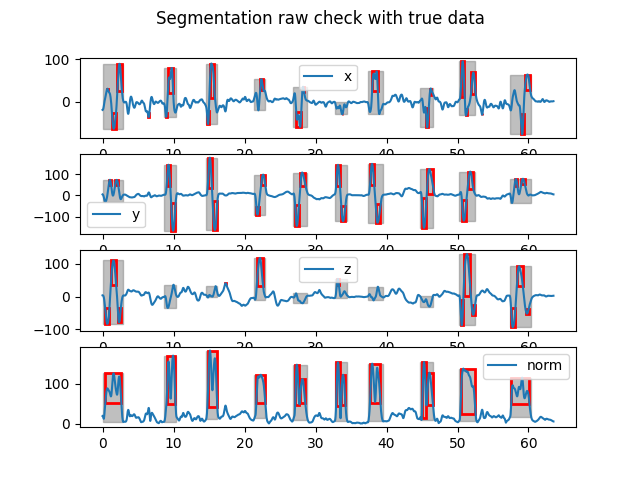
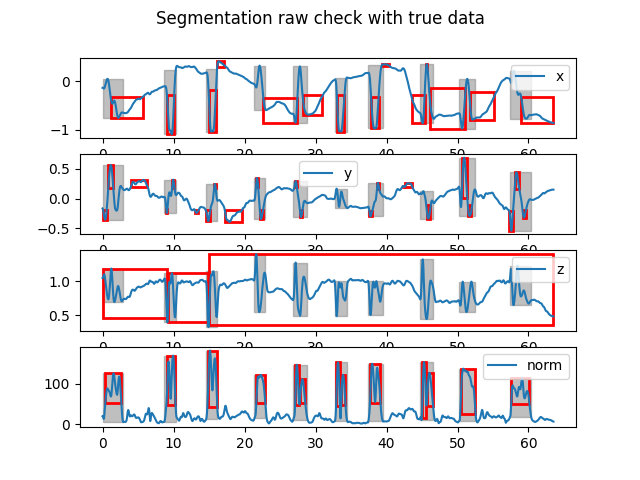
test for test ax + ay, all acc + gyr, all acc, all gyr and compute IOU for each

diff --git a/signalUtils.py b/signalUtils.py
@@ -3,23 +3,87 @@ import mathsUtils as MATH
 import matplotlib.pyplot as plt
 import numpy as np
 
-def all_calculations(x_accel, y_accel, z_accel, timestamp, sigma, threshold_multiplier, true_mvmt, fs):
+def all_calculations(signal, timestamp, sigma, threshold_multiplier, true_mvmt, fs, choice):
+    x_accel = signal[0]
+    y_accel = signal[1]
+    z_accel = signal[2]
 
-    xaccel_derivative, xaccel_gaussian, abs_xaccel, start_xaccel, end_xaccel = MATH.simple_segmentation(
+    if choice == 2: #only x and y acc
+        z_accel = [0] * len(z_accel) 
+        xaccel_derivative, xaccel_gaussian, abs_xaccel, start_xaccel, end_xaccel = MATH.simple_segmentation(
             timestamp, x_accel, sigma, threshold_multiplier)
-    yaccel_derivative, yaccel_gaussian, abs_yaccel, start_yaccel, end_yaccel = MATH.simple_segmentation(
-            timestamp, y_accel, sigma, threshold_multiplier)
-    zaccel_derivative, zaccel_gaussian, abs_zaccel, start_zaccel, end_zaccel = MATH.simple_segmentation(
-            timestamp, z_accel, sigma, threshold_multiplier)
-    
-    norm_derivative = MATH.compute_norm(xaccel_derivative, yaccel_derivative, zaccel_derivative)
-    norm_gaussian = MATH.compute_norm(xaccel_gaussian, yaccel_gaussian, zaccel_gaussian)
-    
+        yaccel_derivative, yaccel_gaussian, abs_yaccel, start_yaccel, end_yaccel = MATH.simple_segmentation(
+                timestamp, y_accel, sigma, threshold_multiplier)
+        zaccel_derivative, zaccel_gaussian, abs_zaccel, start_zaccel, end_zaccel = MATH.simple_segmentation(
+                timestamp, z_accel, sigma, threshold_multiplier)
+        
+        norm_derivative = MATH.compute_norm(xaccel_derivative, yaccel_derivative, zaccel_derivative)
+        norm_gaussian = MATH.compute_norm(xaccel_gaussian, yaccel_gaussian, zaccel_gaussian)
+
+        name = "x_y_acc"
+    elif choice == 3: #merge all acc and gyros
+        xaccel_derivative, xaccel_gaussian, abs_xaccel, start_xaccel, end_xaccel = MATH.simple_segmentation(
+            timestamp, x_accel, sigma, threshold_multiplier)
+        yaccel_derivative, yaccel_gaussian, abs_yaccel, start_yaccel, end_yaccel = MATH.simple_segmentation(
+                timestamp, y_accel, sigma, threshold_multiplier)
+        zaccel_derivative, zaccel_gaussian, abs_zaccel, start_zaccel, end_zaccel = MATH.simple_segmentation(
+                timestamp, z_accel, sigma, threshold_multiplier)
+        
+        xgyros_derivative, xgyros_gaussian, abs_xgyros, start_xgyros, end_xgyros = MATH.simple_segmentation(
+            timestamp, signal[3], sigma, threshold_multiplier)
+        ygyros_derivative, ygyros_gaussian, abs_ygyros, start_ygyros, end_ygyros = MATH.simple_segmentation(
+                timestamp, signal[4], sigma, threshold_multiplier)
+        zgyros_derivative, zgyros_gaussian, abs_zgyros, start_zgyros, end_zgyros = MATH.simple_segmentation(
+                timestamp, signal[5], sigma, threshold_multiplier)
+        
+        norm_derivative = MATH.compute_norm(xaccel_derivative, yaccel_derivative, zaccel_derivative, 
+                                            xgyros_derivative, ygyros_derivative, zgyros_derivative)
+        norm_gaussian = MATH.compute_norm(xaccel_gaussian, yaccel_gaussian, zaccel_gaussian,
+                                          xgyros_gaussian, ygyros_gaussian, zgyros_gaussian)
+        
+        name = "all"
+    elif choice == 4: #merge x and y acc and gyros
+        z_accel = [0] * len(z_accel) 
+        xaccel_derivative, xaccel_gaussian, abs_xaccel, start_xaccel, end_xaccel = MATH.simple_segmentation(
+            timestamp, x_accel, sigma, threshold_multiplier)
+        yaccel_derivative, yaccel_gaussian, abs_yaccel, start_yaccel, end_yaccel = MATH.simple_segmentation(
+                timestamp, y_accel, sigma, threshold_multiplier)
+        zaccel_derivative, zaccel_gaussian, abs_zaccel, start_zaccel, end_zaccel = MATH.simple_segmentation(
+                timestamp, z_accel, sigma, threshold_multiplier)
+        
+        xgyros_derivative, xgyros_gaussian, abs_xgyros, start_xgyros, end_xgyros = MATH.simple_segmentation(
+            timestamp, signal[3], sigma, threshold_multiplier)
+        ygyros_derivative, ygyros_gaussian, abs_ygyros, start_ygyros, end_ygyros = MATH.simple_segmentation(
+                timestamp, signal[4], sigma, threshold_multiplier)
+        zgyros_derivative, zgyros_gaussian, abs_zgyros, start_zgyros, end_zgyros = MATH.simple_segmentation(
+                timestamp, signal[5], sigma, threshold_multiplier)
+        
+        norm_derivative = MATH.compute_norm(xaccel_derivative, yaccel_derivative, zaccel_derivative, 
+                                            xgyros_derivative, ygyros_derivative, zgyros_derivative)
+        norm_gaussian = MATH.compute_norm(xaccel_gaussian, yaccel_gaussian, zaccel_gaussian,
+                                          xgyros_gaussian, ygyros_gaussian, zgyros_gaussian)
+        
+        name = "x_y_acc_all_gyr"
+    else:
+        xaccel_derivative, xaccel_gaussian, abs_xaccel, start_xaccel, end_xaccel = MATH.simple_segmentation(
+            timestamp, x_accel, sigma, threshold_multiplier)
+        yaccel_derivative, yaccel_gaussian, abs_yaccel, start_yaccel, end_yaccel = MATH.simple_segmentation(
+                timestamp, y_accel, sigma, threshold_multiplier)
+        zaccel_derivative, zaccel_gaussian, abs_zaccel, start_zaccel, end_zaccel = MATH.simple_segmentation(
+                timestamp, z_accel, sigma, threshold_multiplier)
+        
+        norm_derivative = MATH.compute_norm(xaccel_derivative, yaccel_derivative, zaccel_derivative)
+        norm_gaussian = MATH.compute_norm(xaccel_gaussian, yaccel_gaussian, zaccel_gaussian)
+
+        name = "classic"
+
+ 
     threshold = threshold_multiplier * max(norm_gaussian)
 
     # Find the indices of movement segments
     markers_begin, markers_end = MATH.find_bounds(timestamp, norm_gaussian, threshold)
 
+    """
     GRAPH.plots_data(timestamp, 
                     "Derivative",
                     False,
@@ -51,17 +115,13 @@ def all_calculations(x_accel, y_accel, z_accel, timestamp, sigma, threshold_mult
                             [start_xaccel, start_yaccel, start_zaccel, markers_begin],
                             [end_xaccel, end_yaccel, end_zaccel, markers_end], fs,
                             False)
-    
-    print(f"x rectangle amount : {len(start_xaccel)}")
-    print(f"y rectangle amount : {len(start_yaccel)}")
-    print(f"z rectangle amount : {len(start_zaccel)}")
-    print(f"norm rectangle amount : {len(markers_begin)}")
+    """
 
     GRAPH.plot_checking(timestamp,
                         [ (xaccel_gaussian, "x"), (yaccel_gaussian, "y"), (zaccel_gaussian, "z"), (norm_gaussian, "norm") ],
                         [start_xaccel, start_yaccel, start_zaccel, markers_begin],
                         [end_xaccel, end_yaccel, end_zaccel, markers_end],
-                        true_mvmt, fs, "raw")
+                        true_mvmt, fs, "raw", name)
     
     iou_threshold = 2
 
@@ -76,26 +136,7 @@ def all_calculations(x_accel, y_accel, z_accel, timestamp, sigma, threshold_mult
                         [new_start_x, new_start_y, new_start_z, new_start_norm],
                         [new_end_x, new_end_y, new_end_z, new_end_norm],
                         true_mvmt,
-                        fs, "corrected")
-
-    print(f"new rectangles : {len(new_start_norm)}")
+                        fs, "corrected", name)
     
     return start_xaccel, end_xaccel, start_yaccel, end_yaccel, start_zaccel, end_zaccel, markers_begin, markers_end
-
-def channels_stats(x, y, z):
-    abs_x = np.abs(x)
-    abs_y = np.abs(y)
-    abs_z = np.abs(z)
-
-    x_average = np.mean(abs_x)
-    y_average = np.mean(abs_y)
-    z_average = np.mean(abs_z)
-    max_channel = max(x_average, y_average, z_average)
-
-    if max_channel == x_average:
-        return "x"
-    elif max_channel == y_average:
-        return "y"
-    else:
-        return "y"
     

diff --git a/mathsUtils.py b/mathsUtils.py
@@ -1,6 +1,7 @@
 from scipy.ndimage import gaussian_filter1d
 from typing import List
-from math import sqrt, pow
+from math import sqrt, pow, atan, pi
+import numpy as np
 
 def derivative(normalised_timestamp_acc, x_accel):
     x_derivative = []
@@ -120,3 +121,108 @@ def true_false_positive_negative(iou:float, is_gesture:bool):
 
 def mean(data):
     return sum(data)/len(data)
+
+def build_angles(accs_x, accs_y, accs_z, gyrs_x, gyrs_y, gyrs_z, timestamps):
+    n = len(timestamps)
+    acc_angles_x = [0] * n
+    acc_angles_y = [0] * n
+    for i in range(len(timestamps)):
+        acc_angles_x[i] = atan(accs_y[i] / sqrt(pow(accs_x[i], 2) + pow(accs_z[i], 2))) * 180 / pi
+        acc_angles_y[i] = atan(-1 * accs_x[i] / sqrt(pow(accs_y[i], 2) + pow(accs_z[i], 2))) * 180 / pi
+
+    gyro_angles_x = [0] * n
+    gyro_angles_y = [0] * n
+    dt = timestamps[1] - timestamps[0]
+    current_gyro_angle_x = 0.0
+    current_gyro_angle_y = 0.0
+    current_gyro_angle_x = gyrs_x[0] * dt
+    current_gyro_angle_y = gyrs_y[0] * dt
+    gyro_angles_x[0] = current_gyro_angle_x
+    gyro_angles_y[0] = current_gyro_angle_y
+
+    yaws = [0] * n
+    rolls = [0] * n
+    pitchs = [0] * n
+    current_yaw = 0
+    current_yaw = gyrs_z[0] + dt
+    yaws[0] = current_yaw
+
+    total_time = 0
+    ERROR_YAW = 0
+    ERROR_ROLL = 0
+    ERROR_PITCH = 0
+    for i in range(1, n):
+        dt = timestamps[i] - timestamps[i - 1]
+        total_time += dt
+        current_gyro_angle_x += gyrs_x[i] * dt
+        current_gyro_angle_y += gyrs_y[i] * dt
+        gyro_angles_x[i] = current_gyro_angle_x
+        gyro_angles_y[i] = current_gyro_angle_y
+
+        current_yaw += gyrs_z[i] * dt
+        yaws[i] = current_yaw
+        rolls[i] = gyro_angles_x[i]
+        pitchs[i] = gyro_angles_y[i]
+        
+    ERROR_YAW = yaws[-1] / total_time
+    ERROR_ROLL = rolls[-1] / total_time
+    ERROR_PITCH = pitchs[-1] / total_time
+
+    total_time = 0
+    current_yaw = 0
+    current_yaw = gyrs_z[0] + dt
+    for i in range(1, n):
+        dt = timestamps[i] - timestamps[i - 1]
+        total_time += dt
+        current_gyro_angle_x += gyrs_x[i] * dt
+        current_gyro_angle_y += gyrs_y[i] * dt
+        gyro_angles_x[i] = current_gyro_angle_x
+        gyro_angles_y[i] = current_gyro_angle_y
+
+        yaws[i] -= ERROR_YAW * total_time
+        rolls[i] -= ERROR_ROLL * total_time
+        pitchs[i] -= ERROR_PITCH * total_time
+    return rolls, pitchs, yaws
+
+def init_norms(timestamps, accs_x, accs_y, accs_z):
+        norms = []
+        n = len(timestamps)
+        for i in range(n):
+            norms.append(sqrt(accs_x[i] * accs_x[i] + accs_y[i] * accs_y[i] + accs_z[i] * accs_z[i]))
+        return norms
+
+def compensate_gravity(timestamps, accs_x, accs_y, accs_z, gyrs_x, gyrs_y, gyrs_z):
+    alpha = 0.6
+    rolls, pitchs, yaws = build_angles(accs_x, accs_y, accs_z, gyrs_x, gyrs_y, gyrs_z, timestamps)
+    for i in range(len(timestamps)):
+        # Intégration des valeurs du gyroscope pour estimer l'angle d'inclinaison
+        roll = rolls[i] / 180 * pi
+        pitch = pitchs[i] / 180 * pi
+        yaw = yaws[i] / 180 * pi
+
+        # Projection de l'accélération sur les axes du référentiel du capteur
+        # selon l'angle d'inclinaison estimé
+        R_x = np.array([[1, 0, 0],
+                        [0, np.cos(roll), -np.sin(roll)],
+                        [0, np.sin(roll), np.cos(roll)]])
+        R_y = np.array([[np.cos(pitch), 0, np.sin(pitch)],
+                        [0, 1, 0],
+                        [-np.sin(pitch), 0, np.cos(pitch)]])
+        R_z = np.array([[np.cos(yaw), -np.sin(yaw), 0],
+                    [np.sin(yaw), np.cos(yaw), 0],
+                    [0, 0, 1]])
+
+        accel = np.array([accs_x[i], accs_y[i], accs_z[i]]).reshape(-1, 1)
+        projected_accel = np.dot(R_z, np.dot(R_y, np.dot(R_x, accel)))
+
+        # Compensation de la gravité
+        compensated_accel = projected_accel - np.array([0, 0, 1]).reshape(-1, 1)
+
+        # Filtre complémentaire pour combiner l'accélération compensée et non compensée
+        compensated_accel = alpha * compensated_accel + (1 - alpha) * np.array([accs_x[i], accs_y[i], accs_z[i]]).reshape(-1, 1)
+
+        accs_x[i] = float(compensated_accel[0][0])
+        accs_y[i] = float(compensated_accel[1][0])
+        accs_z[i] = float(compensated_accel[2][0])
+
+    return accs_x, accs_y, accs_z

diff --git a/main.py b/main.py
@@ -22,9 +22,11 @@ if __name__ == "__main__":
         # SEGMENTATION
         true_mvmt = CSV.labelise_data(seq_to_labelise)
 
+
+        #CLASSIC
         start_xgyros, end_xgyros, start_ygyros, end_ygyros, start_zgyros, end_zgyros, start_norm, end_norm = SIGNAL.all_calculations(
-                x_gyros, y_gyros, z_gyros,
-                normalised_timestamp_acc, sigma, threshold_multiplier, true_mvmt, fs)
+                (x_gyros, y_gyros, z_gyros),
+                normalised_timestamp_acc, sigma, threshold_multiplier, true_mvmt, fs, 1)
         
         true_start = true_mvmt[0]
         true_end = true_mvmt[1]
@@ -39,4 +41,57 @@ if __name__ == "__main__":
         for i in range(0, min(len(true_start), len(new_start))):
             iou = MATH.IOU(true_start[i], true_end[i], new_start[i], new_end[i])
             print(iou)
+
+
+
+        # ONLY X AND Y ACC
+        start_xaccel, end_xaccel, start_yaccel, end_yaccel, start_zaccel, end_zaccel, start_norm, end_norm = SIGNAL.all_calculations(
+                (x_accel, y_accel, z_accel),
+                normalised_timestamp_acc, sigma, threshold_multiplier, true_mvmt, fs, 2)
         
+        true_start = true_mvmt[0]
+        true_end = true_mvmt[1]
+
+        print("avant merge : ")
+        for i in range(0, min(len(true_start), len(start_norm))):
+            iou = MATH.IOU(true_start[i], true_end[i], start_norm[i], end_norm[i])
+            print(iou)
+
+        print("apres merge : ")
+        new_start, new_end = MATH.non_max_suppression(start_norm, end_norm, 2)
+        for i in range(0, min(len(true_start), len(new_start))):
+            iou = MATH.IOU(true_start[i], true_end[i], new_start[i], new_end[i])
+            print(iou)
+
+
+        # ALL ACC AND ALL GYR
+        start_xaccel, end_xaccel, start_yaccel, end_yaccel, start_zaccel, end_zaccel, start_norm, end_norm = SIGNAL.all_calculations(
+                (x_accel, y_accel, z_accel, x_gyros, y_gyros, z_gyros),
+                normalised_timestamp_acc, sigma, threshold_multiplier, true_mvmt, fs, 3)
+        
+        print("avant merge : ")
+        for i in range(0, min(len(true_start), len(start_norm))):
+            iou = MATH.IOU(true_start[i], true_end[i], start_norm[i], end_norm[i])
+            print(iou)
+
+        print("apres merge : ")
+        new_start, new_end = MATH.non_max_suppression(start_norm, end_norm, 2)
+        for i in range(0, min(len(true_start), len(new_start))):
+            iou = MATH.IOU(true_start[i], true_end[i], new_start[i], new_end[i])
+            print(iou)
+
+        # X AND Y ACC AND ALL GYR
+        start_xaccel, end_xaccel, start_yaccel, end_yaccel, start_zaccel, end_zaccel, start_norm, end_norm = SIGNAL.all_calculations(
+                (x_accel, y_accel, z_accel, x_gyros, y_gyros, z_gyros),
+                normalised_timestamp_acc, sigma, threshold_multiplier, true_mvmt, fs, 4)
+        
+        print("avant merge : ")
+        for i in range(0, min(len(true_start), len(start_norm))):
+            iou = MATH.IOU(true_start[i], true_end[i], start_norm[i], end_norm[i])
+            print(iou)
+
+        print("apres merge : ")
+        new_start, new_end = MATH.non_max_suppression(start_norm, end_norm, 2)
+        for i in range(0, min(len(true_start), len(new_start))):
+            iou = MATH.IOU(true_start[i], true_end[i], new_start[i], new_end[i])
+            print(iou)

diff --git a/graphUtils.py b/graphUtils.py
@@ -109,7 +109,7 @@ def plots_rectangles(timestamp, y_signals: List[Tuple[List[float],str]], segment
         plt.show()
 
 
-def plot_checking(timestamp, y_signals, seg_start, seg_end, true_mvmt, fs, name):
+def plot_checking(timestamp, y_signals, seg_start, seg_end, true_mvmt, fs, name, choice):
     _, axs = plt.subplots(len(y_signals))
     true_start = true_mvmt[0]
     true_end = true_mvmt[1]
@@ -138,8 +138,8 @@ def plot_checking(timestamp, y_signals, seg_start, seg_end, true_mvmt, fs, name)
             axs[i].add_patch(rect)
         axs[i].legend()
 
-    plt.suptitle(f"Segmentation {name} check with true data")
-    plt.savefig(f"./images_saved/results/Labelised_{name}.png")
+    plt.suptitle(f"Segmentation {name} for {choice} check with true data")
+    plt.savefig(f"./images_saved/results/Labelised_{name}_{choice}.png")
     plt.show()
 
 

diff --git a/data_collection/correction/main.py b/data_collection/correction/main.py
@@ -3,11 +3,11 @@ import utils.file_utils as file_utils
 from sequence_gesture import SequenceGesture
 
 if __name__ == "__main__":
-    seq1:SequenceGesture = file_utils.get_gesture_file_content("../res/last.csv")
+    seq1:SequenceGesture = file_utils.get_gesture_file_content("data/our_datas/new/processed/seq13.csv")
     seq1.shift_timestamp()
     seq1.init_norms()
     seq1.build_angles()
     seq1.compensate_gravity()
     seq1.init_norms()
     #seq1.moyenne_acc()
-    seq1.plot()
+    #seq1.plot()
